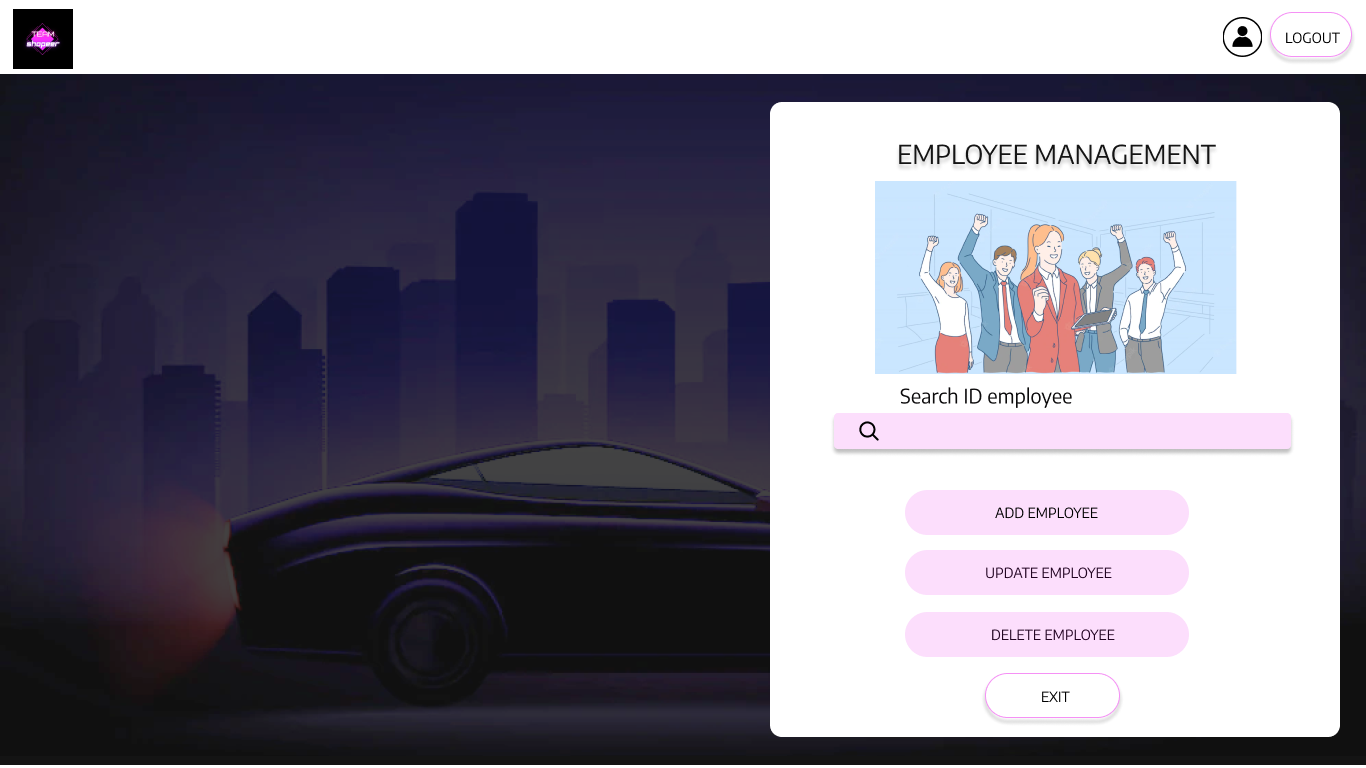
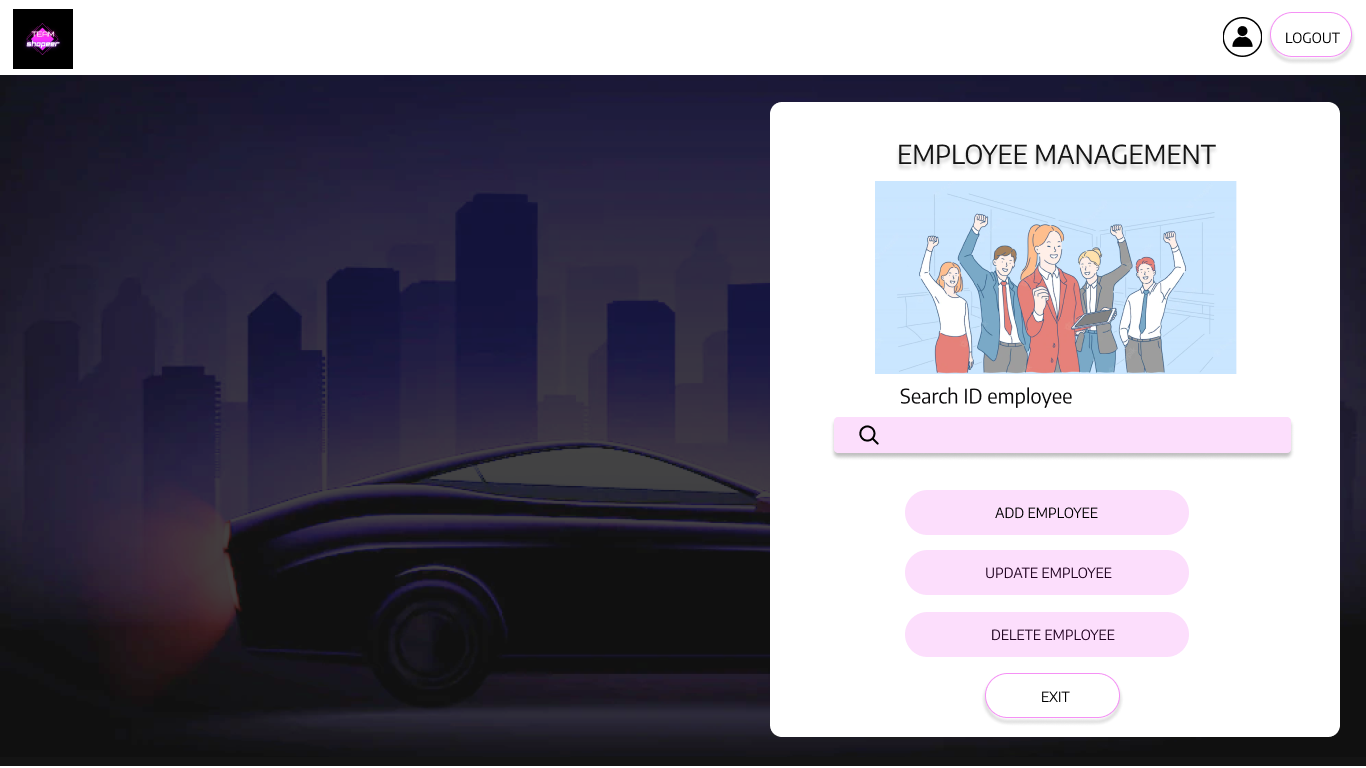
More bug

Changed region(s): [[0.6149, 0.5312, 0.9531, 0.5938]]

diff --git a/View/UpdateProductView.py b/View/UpdateProductView.py
@@ -1,0 +1,83 @@
+from tkinter import *
+class UpdateProductView():
+    def __init__(self, root,controller):
+        root.geometry("1366x768")
+        root.resizable(0, 0)
+        root.title("UPdate Product")
+
+        self.label = Label(root)
+        self.label.place(relx=0, rely=0, width=1366, height=768)
+        self.img = PhotoImage(master=root,file="./Images/UpdateProduct.png")
+        self.label.configure(image=self.img)
+
+        self.entry_name = Entry(root)
+        self.entry_name.place(x=320, y=390, width=280, height=34)
+        self.entry_name.configure(font="Itim 14")
+        self.entry_name.configure(relief="flat")
+        self.entry_name.configure(bg="#E7CAEC")
+
+        self.entry_trademark = Entry(root)
+        self.entry_trademark.place(x=850, y=390, width=280, height=34)
+        self.entry_trademark.configure(font="Itim 14")
+        self.entry_trademark.configure(relief="flat")
+        self.entry_trademark.configure(bg="#E7CAEC")
+
+        self.entry_quantity = Entry(root)
+        self.entry_quantity.place(x=320, y=490, width=280, height=34)
+        self.entry_quantity.configure(font="Itim 14")
+        self.entry_quantity.configure(relief="flat")
+        self.entry_quantity.configure(bg="#E7CAEC")
+
+        self.entry_price_in = Entry(root)
+        self.entry_price_in.place(x=850, y=490, width=280, height=34)
+        self.entry_price_in.configure(font="Itim 14")
+        self.entry_price_in.configure(relief="flat")
+        self.entry_price_in.configure(bg="#E7CAEC")
+
+        self.entry_price_out = Entry(root)
+        self.entry_price_out.place(x=320, y=590, width=280, height=34)
+        self.entry_price_out.configure(font="Itim 14")
+        self.entry_price_out.configure(relief="flat")
+        self.entry_price_out.configure(bg="#E7CAEC")
+
+        self.button_update = Button(root)
+        self.button_update.place(x=470, y=655)
+        self.button_update.configure(borderwidth="0")
+        self.button_update.configure(background="#E7E7E7")
+        self.button_update.configure(activebackground="#E7E7E7")
+        self.img_update = PhotoImage(master=root,file="./images/Button_Update.png")
+        self.button_update.configure(image=self.img_update)
+
+        # Clear
+        self.button_clear = Button(root)
+        self.button_clear.place(x=640, y=655)
+        self.button_clear.configure(borderwidth="0")
+        self.button_clear.configure(background="#E7E7E7")
+        self.button_clear.configure(activebackground="#E7E7E7")
+        self.img_clear = PhotoImage(master=root,file="./images/Button_Clear.png")
+        self.button_clear.configure(image=self.img_clear)
+
+        # Exit
+        self.button_exit = Button(root)
+        self.button_exit.place(x=810, y=655)
+        self.button_exit.configure(borderwidth="0")
+        self.button_exit.configure(background="#E7E7E7")
+        self.button_exit.configure(activebackground="#E7E7E7")
+        self.img_exit = PhotoImage(master=root,file="./images/Button_Exit.png")
+        self.button_exit.configure(image=self.img_exit)
+
+        # Log out
+        self.button_logout = Button(root)
+        self.button_logout.place(x=1263, y=12)
+        self.button_logout.configure(borderwidth="0")
+        self.button_logout.configure(background="white")
+        self.button_logout.configure(activebackground="white")
+        self.img_logout = PhotoImage(master=root,file="./images/Button_Logout.png")
+        self.button_logout.configure(image=self.img_logout)
+
+        self.entry_name.insert(0,controller.val[1])
+        self.entry_name.configure(state=DISABLED)
+        self.entry_trademark.insert(0,controller.val[2])
+        self.entry_quantity.insert(0,controller.val[3])
+        self.entry_price_in.insert(0,controller.val[4])
+        self.entry_price_out.insert(0,controller.val[5])

diff --git a/Controller/UpdateProductController.py b/Controller/UpdateProductController.py
@@ -1,0 +1,52 @@
+from tkinter import *
+from tkinter import messagebox
+from View.UpdateProductView import *
+from Model.UpdateProductModel import *
+
+class UpdateProductController():
+    def __init__(self, root, toplv, controller):
+        self.root = root
+        self.toplv = toplv
+        self.controller = controller
+        self.window = Toplevel(self.root)
+        self.model = UpdateProductModel()
+        self.view = UpdateProductView(self.window,controller)
+        self.view.button_update.configure(command=self.update)
+        self.view.button_clear.configure(command=self.clear)
+        self.view.button_exit.configure(command=self.exit)
+        self.view.button_logout.configure(command=self.logout)
+        self.window.mainloop()
+
+    def update(self):
+        if self.check_enter():
+            data ={
+                "quantity":self.view.entry_quanlity.get(),
+                "price_in":self.view.entry_price_in.get(),
+                "price_out":self.view.entry_price_out.get()
+            }
+            self.model.update(data,self.view.entry_name.get())
+            messagebox.showinfo("Success","Update successfully")
+            self.controller.clear_treeview()
+            self.controller.display_data()
+
+    def check_enter(self):
+        pass
+
+    def clear(self):
+        self.view.entry_name.delete(0,"end")
+        self.view.entry_trademark.delete(0,"end")
+        self.view.entry_quantity.delete(0,"end")
+        self.view.entry_price_in.delete(0,"end")
+        self.view.entry_price_out.delete(0,"end")
+
+    def exit(self):
+        self.clear()
+        self.window.destroy()
+        self.root.deiconify()
+
+    def logout(self):
+        sure = messagebox.askyesno("Logout", "Are you sure you want to logout?")
+        if sure == True:
+            self.window.destroy()
+            self.root.destroy()
+            self.toplv.deiconify()

diff --git a/Controller/InventoryManagementController.py b/Controller/InventoryManagementController.py
@@ -1,10 +1,8 @@
 from tkinter import *
 from tkinter import messagebox
-from click import command
-
-from matplotlib.pyplot import flag
 from View.InventoryManagementView import *
 from Controller.AddProductController import *
+from Controller.UpdateProductController import *
 from Model.InventoryManagementModel import *
 
 class InventoryManagementController():
@@ -20,6 +18,7 @@ class InventoryManagementController():
         self.display_data()
         self.view.button_search.configure(command=self.search_product)
         self.view.button_addproduct.configure(command=self.add_product)
+        self.view.button_updateproduct.configure(command=self.update_product)
         self.view.button_deleteproduct.configure(command=self.remove_product)
         self.view.button_exit.configure(command = self.exit)
         self.view.button_logout.configure(command = self.logout)
@@ -88,7 +87,17 @@ class InventoryManagementController():
             messagebox.showerror("Error","Please select a product!")
 
     def update_product(self):
-        pass
+        if len(self.sel)==1:
+            self.val=[]
+            for i in self.sel:
+                for j in self.view.tree.item(i)["values"]:
+                    self.val.append(j)
+            self.window.withdraw()
+            UpdateProductController(self.window,self.toplv,self)
+        elif len(self.sel)==0:
+            messagebox.showerror("Error","Please choose a product to update.")
+        else:
+            messagebox.showerror("Error","Can only update one product at a time.")
 
     def exit(self):
         self.window.destroy()

diff --git a/Controller/UpdateEmployeeController.py b/Controller/UpdateEmployeeController.py
@@ -29,7 +29,7 @@ class UpdateEmployeeController():
             self.model.update(data,self.model.mycollection_emp,self.view.entry_username.get())
             if self.view.entry_role.get() =="Admin":
                 self.model.update(data,self.model.mycollection_adm,self.view.entry_username.get())
-            messagebox.showinfo("Succsess","Update successfully")
+            messagebox.showinfo("Success","Update successfully")
             self.controller.clear_treeview()
             self.controller.display_data()
 
@@ -101,7 +101,14 @@ class UpdateEmployeeController():
 
 
     def clear(self):
-        pass
+        self.view.entry_name.delete(0,"end")
+        self.view.entry_wage.delete(0,"end")
+        self.view.entry_age.delete(0,"end")
+        self.view.entry_phone.delete(0,"end")
+        self.view.entry_phone_sub.delete(0,"end")
+        self.view.entry_role.delete(0,"end")
+        self.view.entry_username.delete(0,"end")
+        self.view.entry_password.delete(0,"end")
 
     def exit(self):
         self.clear()

diff --git a/View/InventoryManagementView.py b/View/InventoryManagementView.py
@@ -39,7 +39,7 @@ class InventoryManagementView:
         self.contacts=[]
 
         self.entry_IDproduct = Entry(self.root)
-        self.entry_IDproduct.place(relx=0.67, rely=0.55, width=365, height=32)
+        self.entry_IDproduct.place(relx=0.67, rely=0.54, width=365, height=32)
         self.entry_IDproduct.configure(background = "#fcdefc")
         self.entry_IDproduct.configure(font="Itim 18")
         self.entry_IDproduct.configure(relief="flat")

diff --git a/View/EmployeesManagementView.py b/View/EmployeesManagementView.py
@@ -43,7 +43,7 @@ class EmployeesManagementView:
         self.contacts = []
 
         self.entry_id = Entry(self.root)
-        self.entry_id.place(relx=0.6578, rely=0.54, width=365, height=32)
+        self.entry_id.place(relx=0.6578, rely=0.547, width=365, height=30)
         self.entry_id.configure(background = "#fcdefc")
         self.entry_id.configure(font="Itim 18")
         self.entry_id.configure(relief="flat")

diff --git a/Controller/EmployeesManagementController.py b/Controller/EmployeesManagementController.py
@@ -113,7 +113,7 @@ class EmployeesManagementController():
         elif len(self.sel)==0:
             messagebox.showerror("Error","Please choose a employee to update.")
         else:
-            messagebox.showerror("Error","Can only update one product at a time.")
+            messagebox.showerror("Error","Can only update one employee at a time.")
 
 
     def exit(self):

diff --git a/Controller/AddProductController.py b/Controller/AddProductController.py
@@ -83,7 +83,7 @@ class AddProductController():
     def clear_entry(self):
         self.view.entry_name.delete(0,"end")
         self.view.entry_trademark.delete(0,"end")
-        self.view.entry_quanlity.delete(0,"end")
+        self.view.entry_quantity.delete(0,"end")
         self.view.entry_price_in.delete(0,"end")
         self.view.entry_price_out.delete(0,"end")
 

diff --git a/Model/UpdateProductModel.py b/Model/UpdateProductModel.py
@@ -1,0 +1,10 @@
+import pymongo
+
+class UpdateProductModel():
+    def __init__(self):
+        self.myclient = pymongo.MongoClient("mongodb://localhost:27017/")
+        self.mydb = self.myclient["project"]
+        self.mycollection =self.mydb["Product"]
+
+    def update(self,data:dict,val):
+        self.mycollection.update_one({"car_name":val},{"$set":data})

diff --git a/View/InvoicesManamentView.py b/View/InvoicesManamentView.py
@@ -1,8 +1,5 @@
 from tkinter import *
 from tkinter.ttk import Treeview
-from turtle import width
-
-from matplotlib.pyplot import text
 
 class InvoicesManagementView():
     def __init__(self,root):
